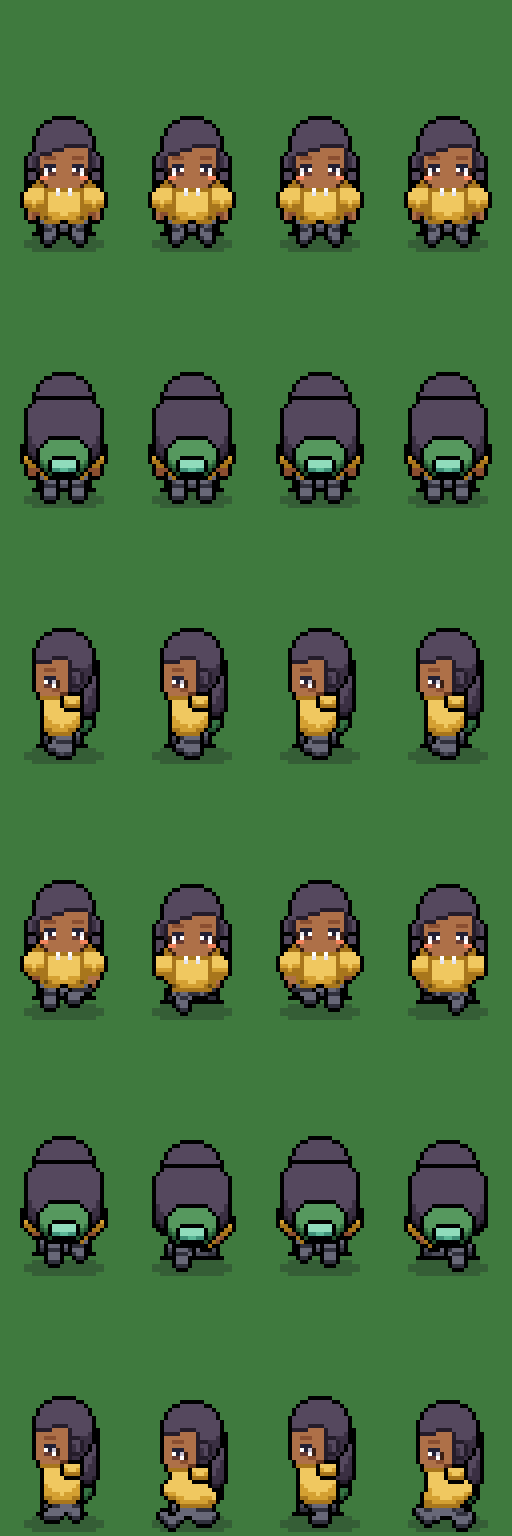
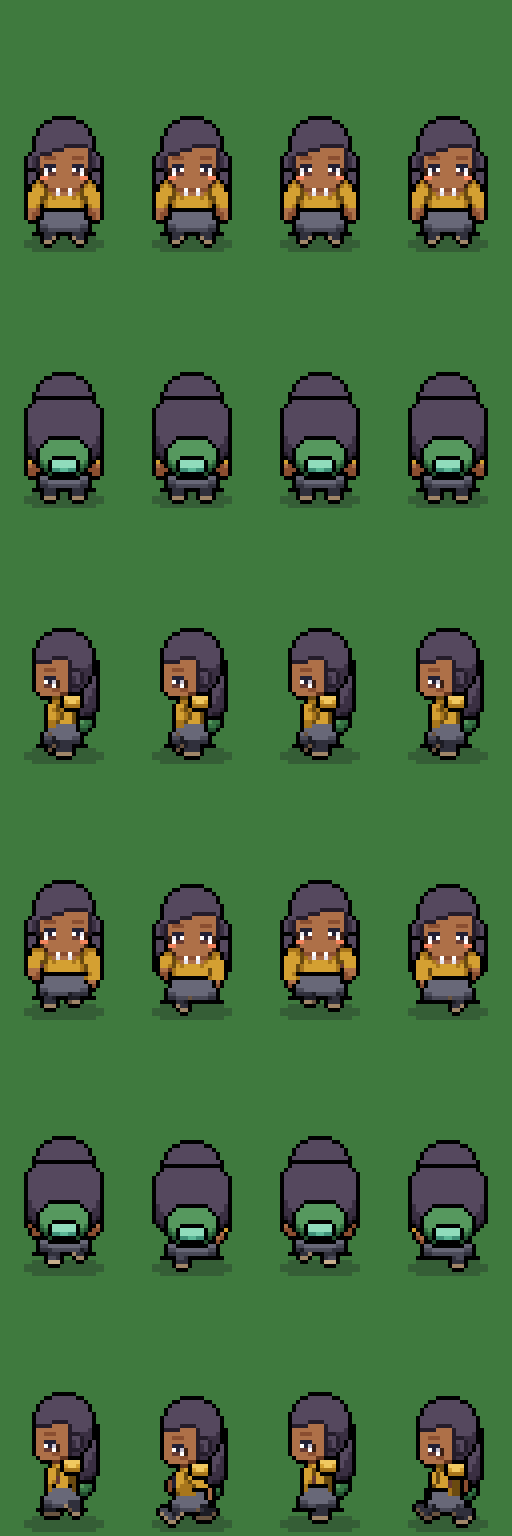
Walk round 2: hands cross the hips, feet fixed, clothing = recolor of reference pixels
- re-imported the walk from the 21:06:52 recording (side cycle 5-8, front
  48-51, back 39-42), each cycle anchored on its planted foot (camera follows
  the walker, so absolute position isn't reliable)
- clothing is now a per-frame recolor of the base body's pixel classes
  (tank, shorts, arm, hand, leg, foot) with each pixel's reference shade:
  pants no longer cover hands swinging over the hips, sleeves follow the arm
  swing, shoes are exactly the feet (never a hand)
- skin shade offset by one so sleeves match the chest; undershirt highlight
  folded into the main tone; body near-white normalized to undershirt white

Claude-Session: https://claude.ai/code/session_01AuTfW4RY5hqwpF1mFtvoZZ

diff --git a/scripts/gen-placeholders.ts b/scripts/gen-placeholders.ts
@@ -92,6 +92,18 @@ class Frame {
   detail(r: Region, d: number, when: (x: number, y: number) => boolean) {
     for (let y = 0; y < FRAME_H; y++) for (let x = 0; x < FRAME_W; x++) if (r.has(x, y) && when(x, y)) this.shift(x, y, d);
   }
+  /** Paint the pixels of the given classes in a key ramp, keeping each pixel's reference shade. */
+  recolor(ch: Ch, when: (cls: number, x: number, y: number) => boolean, dim = 0) {
+    const { cls, shade } = classes(this.p);
+    this.ops.push(() => {
+      for (let y = 0; y < FRAME_H; y++)
+        for (let x = 0; x < FRAME_W; x++) {
+          const i = y * FRAME_W + x;
+          if (shade[i]! < 0 || !when(cls[i]!, x, y)) continue;
+          this.c.set(x, y, KEY_RAMPS[ch][Math.max(0, shade[i]! - dim)]!);
+        }
+    });
+  }
   dot(x: number, y: number, hex: string, alpha = 255) {
     this.ops.push(() => this.c.set(x, y, hex, alpha));
   }
@@ -245,6 +257,78 @@ function headShades(p: Pose): Int8Array {
   return out;
 }
 
+/**
+ * Pixel classes of a frame's base body — clothing is a recolor of these, so it keeps the reference
+ * outline, contour and shading exactly, and hands are never covered.
+ *   TANK  base undershirt pixels       SHORTS base shorts pixels
+ *   ARM   skin connected to the shoulders (arms + hands, incl. hands crossing the hips)
+ *   LEG   skin of the legs              FOOT the lowest 3 leg pixels per column
+ */
+const C = { NONE: 0, OUTLINE: 1, TANK: 2, SHORTS: 3, ARM: 4, HAND: 5, LEG: 6, FOOT: 7 } as const;
+const BASE_GREYS = [FIXED_COLORS.base0, FIXED_COLORS.base1, FIXED_COLORS.base2, FIXED_COLORS.base3] as string[];
+const HIP_LINE: Record<SheetDir, number> = { down: 52, up: 52, left: 54 };
+interface Classes { cls: Uint8Array; shade: Int8Array }
+const classCache = new Map<string, Classes>();
+function classes(p: Pose): Classes {
+  const key = `${p.dir}:${p.anim}:${p.f}`;
+  const hit = classCache.get(key);
+  if (hit) return hit;
+  const src = source(p, "body");
+  const N = FRAME_W * FRAME_H;
+  const cls = new Uint8Array(N);
+  const shade = new Int8Array(N).fill(-1);
+  const skin = new Uint8Array(N);
+  const hip = HIP_LINE[p.dir] + p.m.bodyDy;
+  for (let y = 0; y < FRAME_H; y++)
+    for (let x = 0; x < FRAME_W; x++) {
+      const h = hexAt(src, x, y);
+      if (!h) continue;
+      const i = y * FRAME_W + x;
+      const k = (KEY_RAMPS.skin as readonly string[]).indexOf(h);
+      // on the body, the near-white eye color is a sampled undershirt highlight → treat as base3
+      const g = h === FIXED_COLORS.eyeWhite ? 3 : BASE_GREYS.indexOf(h);
+      if (h === BLACK) cls[i] = C.OUTLINE;
+      // undershirt white highlight (base3) reads as a stain on colored cloth → fold it into the main tone
+      else if (g >= 0) { cls[i] = y < hip ? C.TANK : C.SHORTS; shade[i] = Math.min(g, 2); }
+      // skin's main fill is its lightest shade (3) while cloth's main fill is shade 2 → offset skin by one
+      else if (k >= 0) { skin[i] = 1; shade[i] = Math.max(0, k - 1); }
+    }
+  // skin components: touching rows above the hips → arm (shoulders, arms, hands); else → leg
+  const seen = new Uint8Array(N);
+  for (let i0 = 0; i0 < N; i0++) {
+    if (!skin[i0] || seen[i0]) continue;
+    const comp: number[] = [];
+    const st = [i0];
+    seen[i0] = 1;
+    while (st.length) {
+      const i = st.pop()!;
+      comp.push(i);
+      const x = i % FRAME_W, y = (i / FRAME_W) | 0;
+      for (const [nx, ny] of [[x + 1, y], [x - 1, y], [x, y + 1], [x, y - 1]] as const) {
+        if (nx < 0 || ny < 0 || nx >= FRAME_W || ny >= FRAME_H) continue;
+        const j = ny * FRAME_W + nx;
+        if (skin[j] && !seen[j]) { seen[j] = 1; st.push(j); }
+      }
+    }
+    const minY = Math.min(...comp.map((i) => (i / FRAME_W) | 0));
+    const maxY = Math.max(...comp.map((i) => (i / FRAME_W) | 0));
+    const isArm = minY < hip - 2;
+    for (const i of comp) cls[i] = isArm ? (((i / FRAME_W) | 0) >= maxY - 2 ? C.HAND : C.ARM) : C.LEG;
+  }
+  // feet: lowest 3 leg pixels of each column
+  for (let x = 0; x < FRAME_W; x++) {
+    let n = 0;
+    for (let y = FRAME_H - 1; y >= 0 && n < 3; y--) {
+      const i = y * FRAME_W + x;
+      if (cls[i] === C.LEG) { cls[i] = C.FOOT; n++; }
+      else if (n > 0 && cls[i] !== C.OUTLINE) break;
+    }
+  }
+  const out = { cls, shade };
+  classCache.set(key, out);
+  return out;
+}
+
 /** Body silhouette (torso, arms, legs — animated) for a pose. */
 const bodyMaskCache = new Map<string, Uint8Array>();
 function bodyMask(p: Pose): Uint8Array {
@@ -321,7 +405,7 @@ const drawers: Record<string, Drawer> = {
   "outerwear/outer_hoodie_01.png": (f) => {
     const { p } = f;
     const t = p.torso;
-    jacket(f, 1);
+    jacket(f);
     if (f.dir === "down") {
       f.reg("primary").round(p.head.x + 4, p.head.y + p.head.h - 3, p.head.w - 8, 4, 1);
       f.dot(t.x + 5, t.y + 3, KEY_RAMPS.secondary[3]);
@@ -336,7 +420,7 @@ const drawers: Record<string, Drawer> = {
   },
   "outerwear/outer_blazer_01.png": (f) => {
     const t = f.p.torso;
-    jacket(f, 0);
+    jacket(f);
     if (f.dir === "down") {
       const v = f.reg("secondary");
       for (let i = 0; i < 6; i++) v.rect(t.x + 5 + Math.floor(i / 2), t.y + 1 + i, 4 - 2 * Math.floor(i / 2), 1);
@@ -450,85 +534,37 @@ function hairCap(f: Frame, sideLen: number) {
   }
 }
 
-// Clothing is cut from the animated body silhouette, so it has the same rounded contour as the body.
-// Rows/cols below are measured from the reference (front/back: torso cols 11–20, arms outside;
-// shoulders row 45, hands rows 52–54, legs 55–61; side: torso rows 46–56, legs 57–61).
+// Clothing = recolor of the base body's pixel classes (see `classes()`): it keeps the reference outline,
+// contour and shading, sleeves follow the arms, pants follow the legs, hands stay visible over hips.
 
 const isFrontBack = (f: Frame) => f.dir !== "left";
-const torsoCol = (x: number) => x >= 11 && x <= 20;
-
-/** Cast shadow of the head + arm/torso separation, as in the reference. */
-function torsoDetail(f: Frame, r: Region) {
-  const inner = (x: number, y: number) => r.has(x - 1, y) && r.has(x + 1, y) && r.has(x, y - 1) && r.has(x, y + 1);
-  const y0 = 45 + f.p.m.bodyDy;
-  if (f.dir === "up") {
-    f.detail(r, -2, (x, y) => inner(x, y) && y === y0 + 2 && Math.abs(x + 0.5 - 16) <= 4); // under the nape
-  } else if (f.dir === "down") {
-    f.detail(r, -1, (x, y) => inner(x, y) && y === y0 + 2 && Math.abs(x + 0.5 - 16) <= 4); // chin cast shadow
-  } else {
-    f.detail(r, -1, (x, y) => inner(x, y) && y <= y0 + 1 && x <= 15);
-  }
-  if (isFrontBack(f)) f.detail(r, -1, (x, y) => inner(x, y) && y >= y0 + 2 && (x === 11 || x === 20));
-}
 
 function shirt(f: Frame, sleeveRows: number, collar: boolean) {
-  const { p } = f;
-  const y0 = 45 + p.m.bodyDy;
-  const r = f.bodyReg("primary");
-  if (isFrontBack(f)) fromBody(r, p, (x, y) => y >= y0 && y <= y0 + 8 && (torsoCol(x) || y <= y0 + 1));
-  else fromBody(r, p, (_x, y) => y >= y0 + 1 && y <= y0 + 8 + Math.min(1, sleeveRows - 4));
-  if (f.dir === "down") r.px(15, y0, false).px(16, y0, false); // neckline
-  torsoDetail(f, r);
-  if (isFrontBack(f)) armWear(f, sleeveRows, 0);
-  if (collar && f.dir === "down") f.bodyReg("secondary").rect(13, y0, 6, 1);
-}
-
-function jacket(f: Frame, grow: number) {
-  const { p } = f;
-  const y0 = 45 + p.m.bodyDy;
-  const r = f.bodyReg("primary");
-  if (isFrontBack(f)) fromBody(r, p, (x, y) => y >= y0 && y <= y0 + 9 && (torsoCol(x) || y <= y0 + 1), grow);
-  else fromBody(r, p, (_x, y) => y >= y0 + 1 && y <= y0 + 9, grow);
-  torsoDetail(f, r);
-  if (isFrontBack(f)) armWear(f, 7, grow);
-}
-
-/** Sleeves as their own rounded shapes (outlined against the torso, like the reference arms). */
-function armWear(f: Frame, rows: number, grow: number) {
   const y0 = 45 + f.p.m.bodyDy;
-  for (const side of [(x: number) => x <= 10, (x: number) => x >= 21]) {
-    const r = f.bodyReg("primary");
-    fromBody(r, f.p, (x, y) => side(x) && y >= y0 + 1 && y < y0 + rows, grow);
-  }
+  f.recolor("primary", (c, _x, y) => c === C.TANK || (c === C.ARM && y < y0 + sleeveRows));
+  if (collar && f.dir === "down") f.recolor("secondary", (c, x, y) => c === C.TANK && y <= y0 + 2 && x >= 13 && x <= 18);
+}
+
+function jacket(f: Frame) {
+  f.recolor("primary", (c) => c === C.TANK || c === C.ARM);
 }
 
 function legsWear(f: Frame, len: number) {
-  const { p } = f;
-  const hipTop = (isFrontBack(f) ? 52 : 53) + p.m.bodyDy;
-  const legTop = isFrontBack(f) ? 55 : 57;
-  const bottom = Math.min(59, legTop + len);
-  const hipCols = (x: number) => (isFrontBack(f) ? x >= 10 && x <= 21 : true);
-  // hips: in light; legs: one shade down (they sit in the body's shadow, like the reference legs)
-  const hip = f.bodyReg("primary");
-  fromBody(hip, p, (x, y) => y >= hipTop && y < legTop && hipCols(x));
-  const legs = f.bodyReg("primary", 1);
-  fromBody(legs, p, (x, y) => y >= legTop - 1 && y <= bottom && hipCols(x));
-  if (isFrontBack(f)) f.detail(hip, -1, (x, y) => (x === 15 || x === 16) && y >= hipTop + 2);
+  const legTop = (isFrontBack(f) ? 55 : 57) + f.p.m.bodyDy;
+  f.recolor("primary", (c, _x, y) => c === C.SHORTS || (c === C.LEG && y <= legTop + len));
 }
 
 function footwear(f: Frame, shaft: number) {
-  const { p } = f;
-  const m = bodyMask(p);
-  const r = f.bodyReg("primary");
-  // per column: the lowest 3 (+shaft) body pixels are the foot → follows lifted/striding legs
-  for (let x = 0; x < FRAME_W; x++) {
-    let yb = -1;
-    for (let y = FRAME_H - 1; y >= 55; y--) if (m[y * FRAME_W + x]) { yb = y; break; }
-    if (yb < 0) continue;
-    for (let y = yb; y >= yb - 2 - shaft && y >= 55; y--) if (m[y * FRAME_W + x]) r.px(x, y); // 3-row foot like the reference
-  }
-  const sole = f.bodyReg("secondary");
-  for (let y = 0; y < FRAME_H; y++) for (let x = 0; x < FRAME_W; x++) if (r.has(x, y) && !r.has(x, y + 1)) sole.px(x, y);
+  const { cls } = classes(f.p);
+  const isFoot = (x: number, y: number) => y >= 0 && y < FRAME_H && cls[y * FRAME_W + x] === C.FOOT;
+  // boots: also the leg pixels just above the foot
+  const inShaft = (x: number, y: number) => {
+    for (let d = 1; d <= shaft; d++) if (isFoot(x, y + d)) return true;
+    return false;
+  };
+  f.recolor("primary", (c, x, y) => c === C.FOOT || (shaft > 0 && c === C.LEG && inShaft(x, y)));
+  // sole: bottom foot pixel of each column
+  f.recolor("secondary", (c, x, y) => c === C.FOOT && !isFoot(x, y + 1));
 }
 
 function buildSheet(drawer: Drawer): Canvas {

diff --git a/scripts/tools/import_walk_reference.py b/scripts/tools/import_walk_reference.py
@@ -8,9 +8,10 @@ How it works
 - the recording shows the 32x64 character at exactly 8x; grid origin (-44, -198) px
 - frames are deduplicated (each pose is held ~8 video frames), then sampled at cell centers,
   background removed by flood fill from the frame border, colors snapped to the reference palette
-- cycles (4 frames each) were identified by pairwise frame comparison:
-    down: segments 37,38,39,40   up: 28,29,30,31 (head top cut by the recording → shifted +5 rows)
-    left: 16,17,21,18
+- cycles (4 frames each) were identified by pairwise frame comparison of the 2026-11-09 21:06:52 recording:
+    down: segments 48,49,50,51   up: 39,40,41,42   left: 5,6,7,8   (pass, stride, pass, stride)
+- the camera follows the walker, so absolute position is not reliable: each cycle is anchored so its
+  lowest (planted) foot sits on row 61; the remaining up/down offsets between frames are the real bob
 - the head is static art: it is replaced by the base head (base_body.png) at the detected bob offset,
   so heads/hair/hats stay identical to idle and only move with the whole-body bob.
 Requires: ffmpeg, Pillow.
@@ -20,8 +21,8 @@ from PIL import Image, ImageChops
 
 ROOT = os.path.abspath(os.path.join(os.path.dirname(__file__), "..", ".."))
 OX, OY, S = -44, -198, 8
-CYCLES = {"down": [37, 38, 39, 40], "up": [28, 29, 30, 31], "left": [16, 17, 21, 18]}
-ROW_SHIFT = {"down": 0, "up": 5, "left": 0}
+CYCLES = {"down": [48, 49, 50, 51], "up": [39, 40, 41, 42], "left": [5, 6, 7, 8]}
+FEET_ROW = 61
 DIR_COL = {"down": 0, "up": 1, "left": 2}  # column of each direction in base_body.png
 CANON = ['#000000', '#75412b', '#ab633b', '#d8885c', '#f9bf95', '#f4845c', '#222034', '#663931',
          '#fffefd', '#ece9f0', '#ffffff', '#c8c2d1', '#9193a6']
@@ -88,10 +89,13 @@ def main(video):
         head = {(x, y): base.getpixel((bx + x, y)) for y in range(64) for x in range(32)
                 if base.getpixel((bx + x, y))[3] and in_head(d, x, y, 0)}
         motion[d] = []
-        for fi, k in enumerate(cyc):
+        grids = []
+        for k in cyc:
             s, e = segs[k]
-            g = sample(Image.open(frames[(s + e) // 2]).convert("RGB"), open_top=(d == "up"))
-            g = {(x, y + ROW_SHIFT[d]): c for (x, y), c in g.items()}
+            grids.append(sample(Image.open(frames[(s + e) // 2]).convert("RGB"), open_top=True))
+        shift = FEET_ROW - max(y for g in grids for (_, y) in g)
+        for fi, g in enumerate(grids):
+            g = {(x, y + shift): c for (x, y), c in g.items()}
             # detect bob: best head alignment
             best = None
             for dy in (-2, -1, 0, 1):
@@ -104,6 +108,8 @@ def main(video):
             motion[d].append({"dx": dx, "dy": dy})
             ox = fi * 32; oy = DIR_COL[d] * 64
             for (x, y), c in g.items():
+                if c == '#fffefd':
+                    c = '#ffffff'  # body whites are undershirt, not eye white
                 if 0 <= x < 32 and 0 <= y < 64 and not in_head(d, x - dx, y, dy):
                     strip.putpixel((ox + x, oy + y), rgb(c) + (255,))
             for (x, y), p in head.items():

diff --git a/CLAUDE.md b/CLAUDE.md
@@ -35,13 +35,13 @@ Full spec: `docs/spec.md`. Read it before changing anything in `shared/src/spec.
 
 ## Characters
 - Base body = `art/characters/reference/base_body.png` (down / up / left, 96×64) → idle frames.
-- Walk = `art/characters/reference/base_walk.png` + `.json` (4 frames × down/up/left, imported from the reference recording with `scripts/tools/import_walk_reference.py`). Heads are the base head riding the whole-body bob in the JSON; legs/arms are the reference poses.
-- Clothing is cut per frame from that frame's body silhouette (`source()` / `bodyMask()`), so it follows every pose. **All clothing drawers use `pose()` + the masks so they move with the body.**
+- Walk = `art/characters/reference/base_walk.png` + `.json` (4 frames × down/up/left, imported from the reference recording with `scripts/tools/import_walk_reference.py <video>`; cycles anchored on the planted foot). Heads are the base head riding the whole-body bob in the JSON; legs/arms are the reference poses.
+- Clothing is a **recolor of the base body's pixel classes** per frame (`classes()` in the generator): TANK → shirt, SHORTS + LEG → pants, FOOT (lowest 3 leg px) → shoes, ARM → sleeves, HAND never covered. Each pixel keeps its reference shade, so clothing has the reference outline, contour and shading, and hands crossing the hips stay visible. Bulky extras (hood, skirt, backpack, hats) are drawn shapes.
 - Items: `art/characters/items.json` (source) → copied to `client/public/assets/characters/items.json`. An item = slot + parts (layer + sheet) + channels (+ optional `unlock`).
 - Layer draw order per direction: `LAYER_ORDER` in `shared/src/avatar.ts` (facing up, back layers move in front).
 - The base body is split into `body` (torso/limbs) and `head` layers; `head` is drawn above top/outerwear so clothing never covers the chin. The chin/jaw extends below the head rows in the middle columns (`isChin` in `scripts/lib/pose.ts`: row 45 cols 10–21, row 46 cols 11–20) and is part of the head layer; shirts put the chin's cast shadow on row 47.
 - The head is an oval (reference silhouette). Hair and headwear are cut from that silhouette (`fromHead`) and must not grow outside it — otherwise the head reads as round. Use `f.headReg()` for them — it copies the reference head's shade per pixel (`headShades`), so hair/hats carry exactly the reference shading; black outline only on the outer silhouette, the ramp's dark shade where hair meets skin (no black line across the forehead).
-- Shading = the reference's cel shading (`volume: true` in `Region.paint`): one flat lit shade, a curved terminator (mid shade starts ~55% down at the sides, lower toward the center), darkest shade only in bottom corners; legs one shade darker (`dim`). Clothing is cut from the animated body silhouette (`fromBody`), sleeves are separate outlined shapes, edges meeting skin are soft. Details are limited to the head's cast shadow and arm/torso separation — no strands or noise.
+- Shading comes from the reference pixels themselves: clothing copies the body pixel's shade, hair/hats copy the head's (`headShades`). `volume: true` cel shading is only for drawn shapes (hood, skirt, backpack, cap brim).
 - Compositor bakes each avatar once into a single texture (`client/src/game/avatar/compositor.ts`), cached by appearance.
 
 ## Workflow
